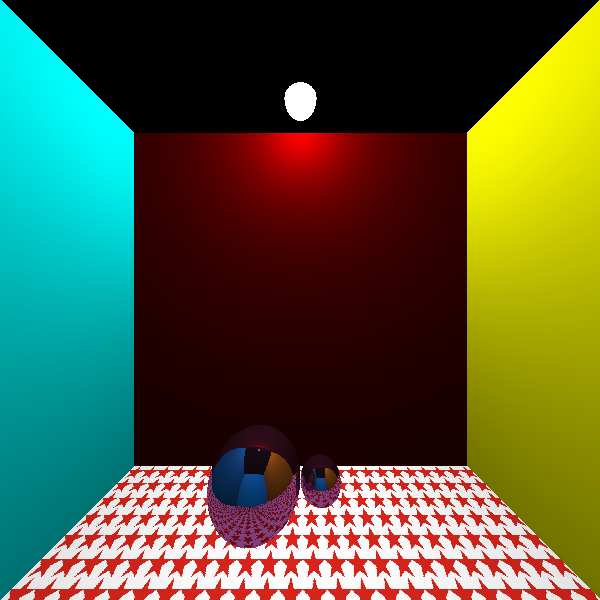
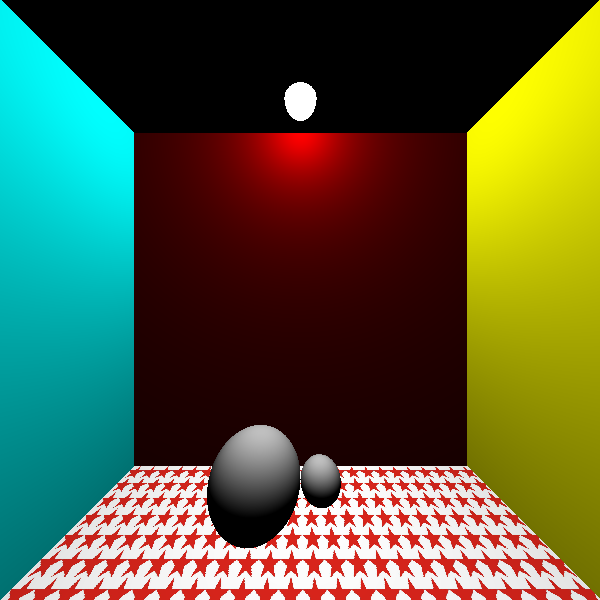
add reflect

Changed region(s): [[0.33, 0.69, 0.57, 0.93]]

diff --git a/proj1/proj1/objects.cpp b/proj1/proj1/objects.cpp
@@ -31,9 +31,9 @@ Color PicTexture::getColor(float x,float y, bool sphere) {
 	int yy = int(y)%pic.cols;
 	while (xx < 0) xx += pic.rows;
 	while (yy < 0) yy += pic.cols;
-	float b = pic.at<cv::Vec3b>(xx, yy)[0]/(double)255;
-	float g = pic.at<cv::Vec3b>(xx, yy)[1]/ (double)255;
-	float r = pic.at<cv::Vec3b>(xx, yy)[2]/ (double)255;
+	float b = pic.at<cv::Vec3b>(xx, yy)[0]/(float)255;
+	float g = pic.at<cv::Vec3b>(xx, yy)[1]/ (float)255;
+	float r = pic.at<cv::Vec3b>(xx, yy)[2]/ (float)255;
 	return Color(r,g,b);
 }
 
@@ -66,9 +66,9 @@ Plane::Plane(Meterial* m, Texture* t,Vector3 _P, Vector3 _n, float _D) :P(_P),n(
 }
 
 float Plane::intersect(Ray &r) {
-	float deno = r.dir*n;
+	float deno = Vector3::dot(r.dir,n);
 	if (deno == 0) return -1;
-	float res = -(D + n*r.o);
+	float res = -(D + Vector3::dot(n,r.o));
 	res /= deno;
 	if (res > 0) return res;
 	else return -1;
@@ -78,8 +78,8 @@ Color Plane::getColor(Vector3 &pos) {
 	if (objTexture->getType() == Texture::PURE) {
 		return objTexture->getColor(pos.getX(), pos.getY(),false);
 	} else {
-		float tx = ((pos - P) * dx) / dx.getLength();
-		float ty = ((pos - P) * dy) / dy.getLength();
+		float tx = Vector3::dot(pos - P, dx) / dx.getLength();
+		float ty = Vector3::dot(pos - P, dy) / dy.getLength();
 		return objTexture->getColor(tx, ty,false);
 	}
 }
@@ -113,8 +113,8 @@ Color Sphere::getColor(Vector3 &pos) {
 
 float Sphere::intersect(Ray &ray) {
 	Vector3 l = P - ray.o;
-	float tp = l*ray.dir;
-	float ll = l*l;
+	float tp = Vector3::dot(l,ray.dir);
+	float ll = Vector3::dot(l, l);
 	float rr = r*r;
 	if (ll > rr) {
 		if (tp < 0) {

diff --git a/proj1/proj1/common.h b/proj1/proj1/common.h
@@ -9,8 +9,8 @@ typedef Vector3 Color;
 
 class Point {
 public:
-	double x, y;
-	Point(double _x,double _y):x(_x),y(_y){}
+	float x, y;
+	Point(float _x,float _y):x(_x),y(_y){}
 };
 
 class Ray{
@@ -37,11 +37,11 @@ class Light {
 public:
 	Vector3 o;
 	Color color;
-	double radius;
-	double brightness;
+	float radius;
+	float brightness;
 	Light():o(Vector3(0,0,0)),color(Color(0,0,0)),radius(10000),brightness(0) {}
-	Light(Vector3 origin, Color c, double r,double b) : o(origin),color(c),radius(r),brightness(b){}
-	void set(Vector3 origin, Color c, double r,double b) {
+	Light(Vector3 origin, Color c, float r,float b) : o(origin),color(c),radius(r),brightness(b){}
+	void set(Vector3 origin, Color c, float r,float b) {
 		o = origin;
 		color = c;
 		radius = r;

diff --git a/proj1/proj1/vector3.h b/proj1/proj1/vector3.h
@@ -31,6 +31,9 @@ class Vector3{
 		static Vector3 div(Vector3 v1,Vector3 v2){
 			return Vector3(v1.x/v2.x,v1.y/v2.y,v1.z/v2.z);
 		}
+		static float dot(Vector3 v1, Vector3 v2) {
+			return v2.x*v1.x + v1.y*v2.y + v1.z*v2.z;
+		}
 
 		void operator += (Vector3 v){
 			x += v.x;
@@ -59,8 +62,8 @@ class Vector3{
 		friend Vector3 operator - (Vector3 v1,Vector3 v2){
 			return Vector3::sub(v1,v2);
 		}	
-		friend float operator * (Vector3 v1,Vector3 v2){
-			return v1.x*v2.x+v1.y*v2.y+v1.z*v2.z;
+		friend Vector3 operator * (Vector3 v1,Vector3 v2){
+			return Vector3::mul(v1, v2);
 		}	
 		friend Vector3 operator * (Vector3 v1,float f){
 			return Vector3::mul(v1,Vector3(f,f,f));

diff --git a/proj1/proj1/main.cpp b/proj1/proj1/main.cpp
@@ -13,11 +13,11 @@ int main(void){
 	time_t start, stop;
 	start = time(NULL);
 	Scene s = Scene();
-	Meterial* m = s.getMeterial(0.5, 0.2, 0.1, 0.6);
+	Meterial* m = s.getMeterial(0.5, 0.2, 1, 0.6);
 	Object** o;
 	o = new Object*[10];
 
-	ColorTexture* tt = s.getColorTexture(Color((double)192/ (double)192, (double)100/ (double)192, 1.0f));
+	ColorTexture* tt = s.getColorTexture(Color((float)192 / (float)255, (float)192 / (float)255, (float)192 / (float)255));
 	o[0] = s.getSphere(m, tt, Vector3(100, 550, 50), 50);
 
 

diff --git a/proj1/proj1/camera.h b/proj1/proj1/camera.h
@@ -13,8 +13,8 @@ public:
 	int lenY;
 	Camera(Vector3 _eye,Vector3 _po,Vector3 _dx,Vector3 _dy,int x,int y):
 		eye(_eye),planeOrigin(_po),dx(_dx),dy(_dy),lenX(x),lenY(y) {
-		dx.normalize();
-		dy.normalize();
+		/*dx.normalize();
+		dy.normalize();*/
 	}
 	Ray* getCameraRay(int x, int y) {
 		Vector3 p = planeOrigin + dx*float(x) + dy*float(y);
